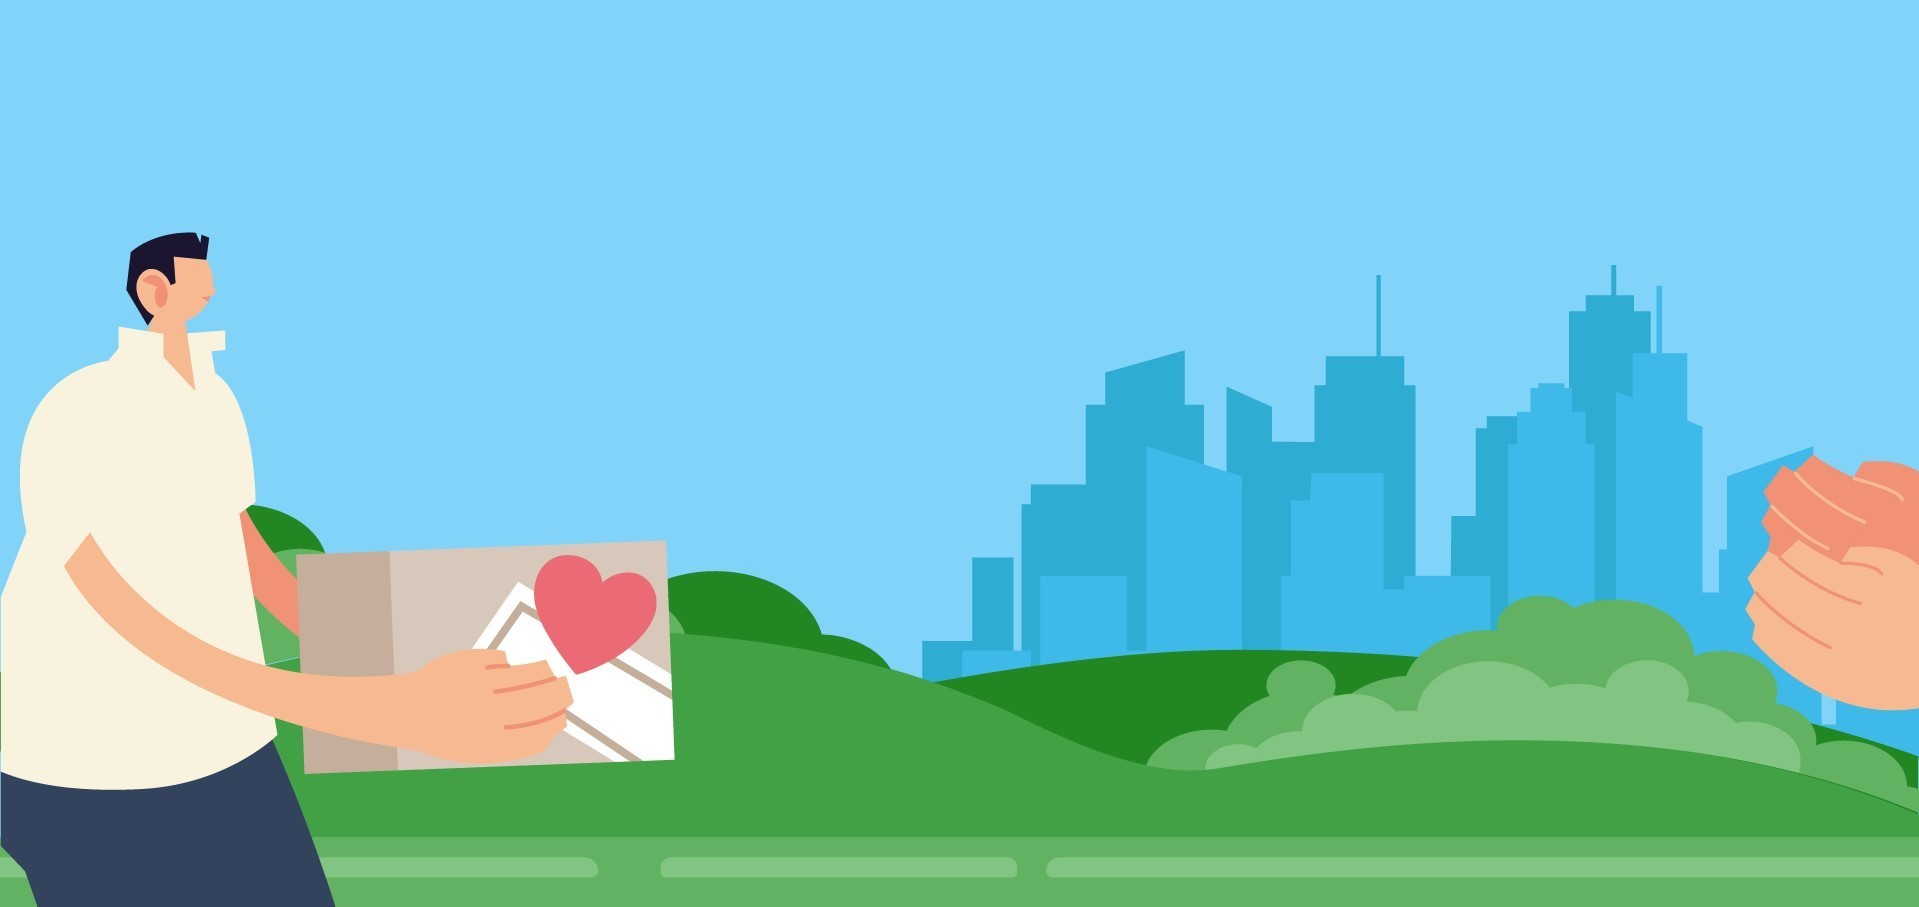
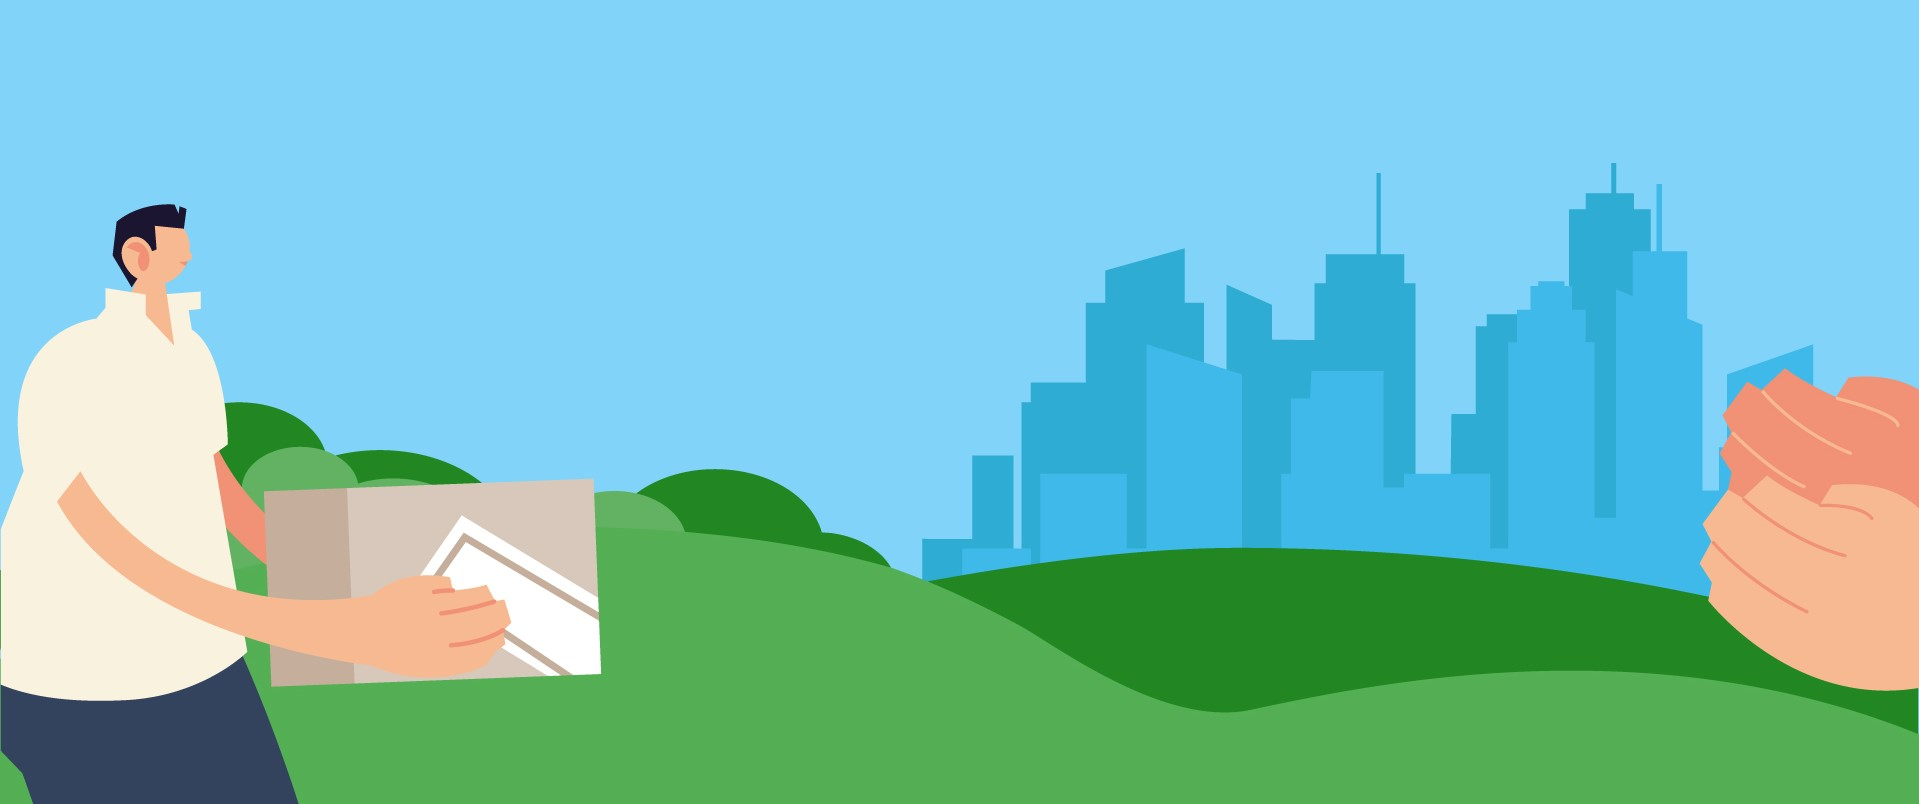
edited home images

diff --git a/app/assets/stylesheets/pages/_home.scss b/app/assets/stylesheets/pages/_home.scss
@@ -36,7 +36,7 @@ body, html {
 
 .img3 {
   background-image: url("save-money.jpg");
-  height: 106%;
+  height: 100vh;
 }
 /* Text boxes*/
 .par {
